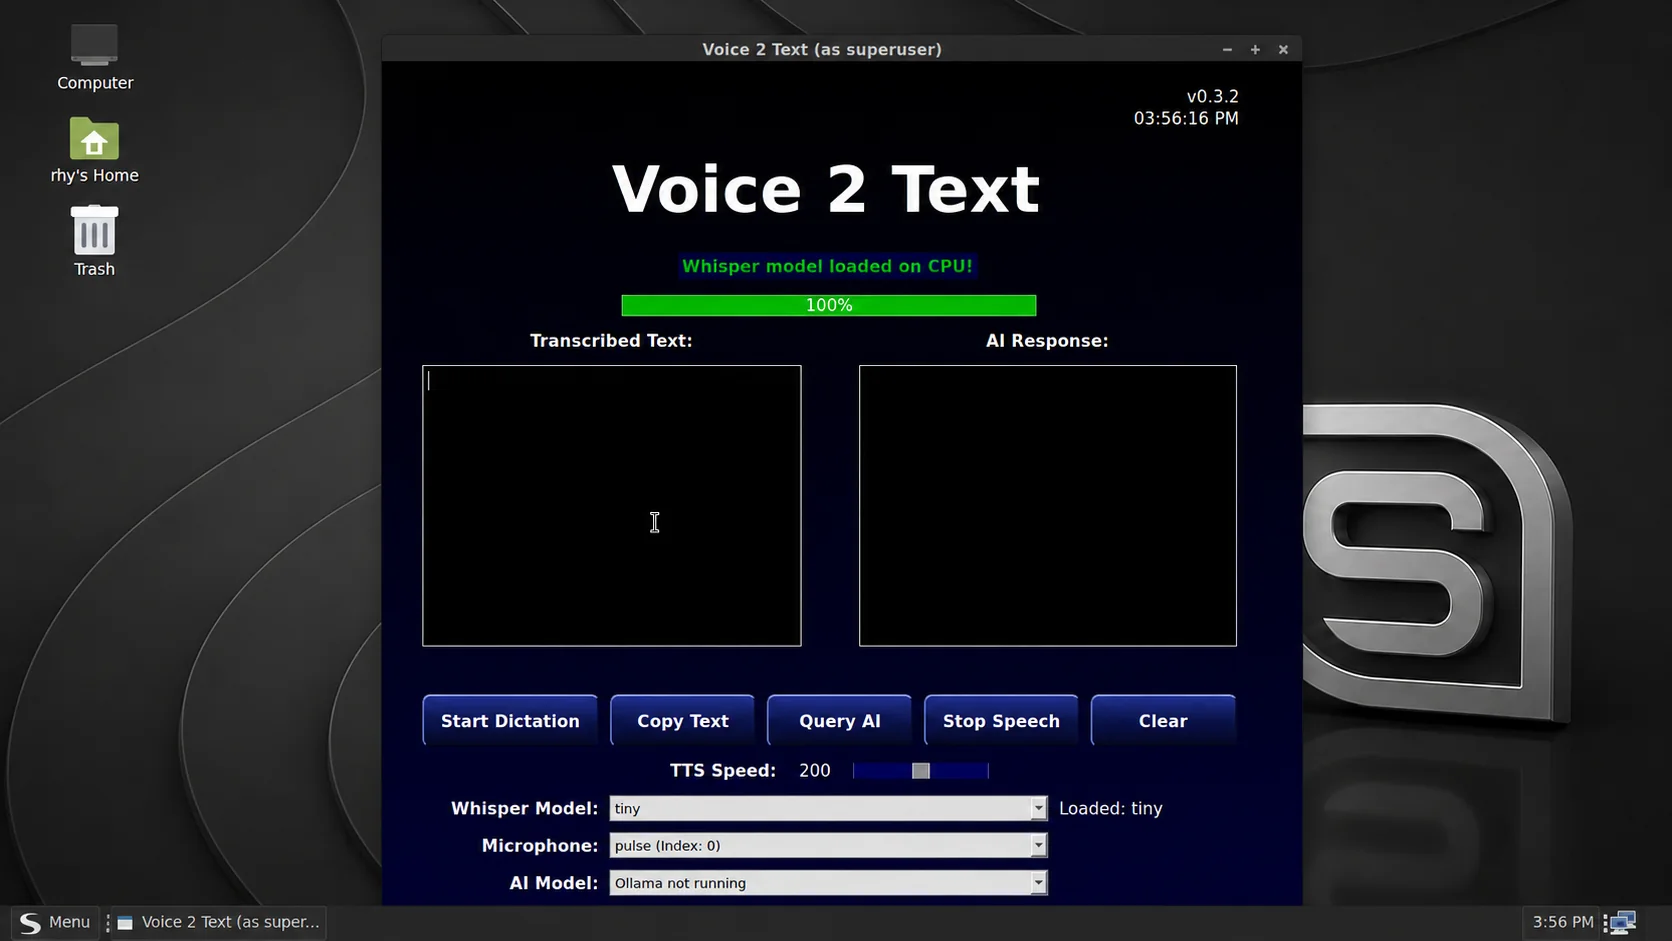
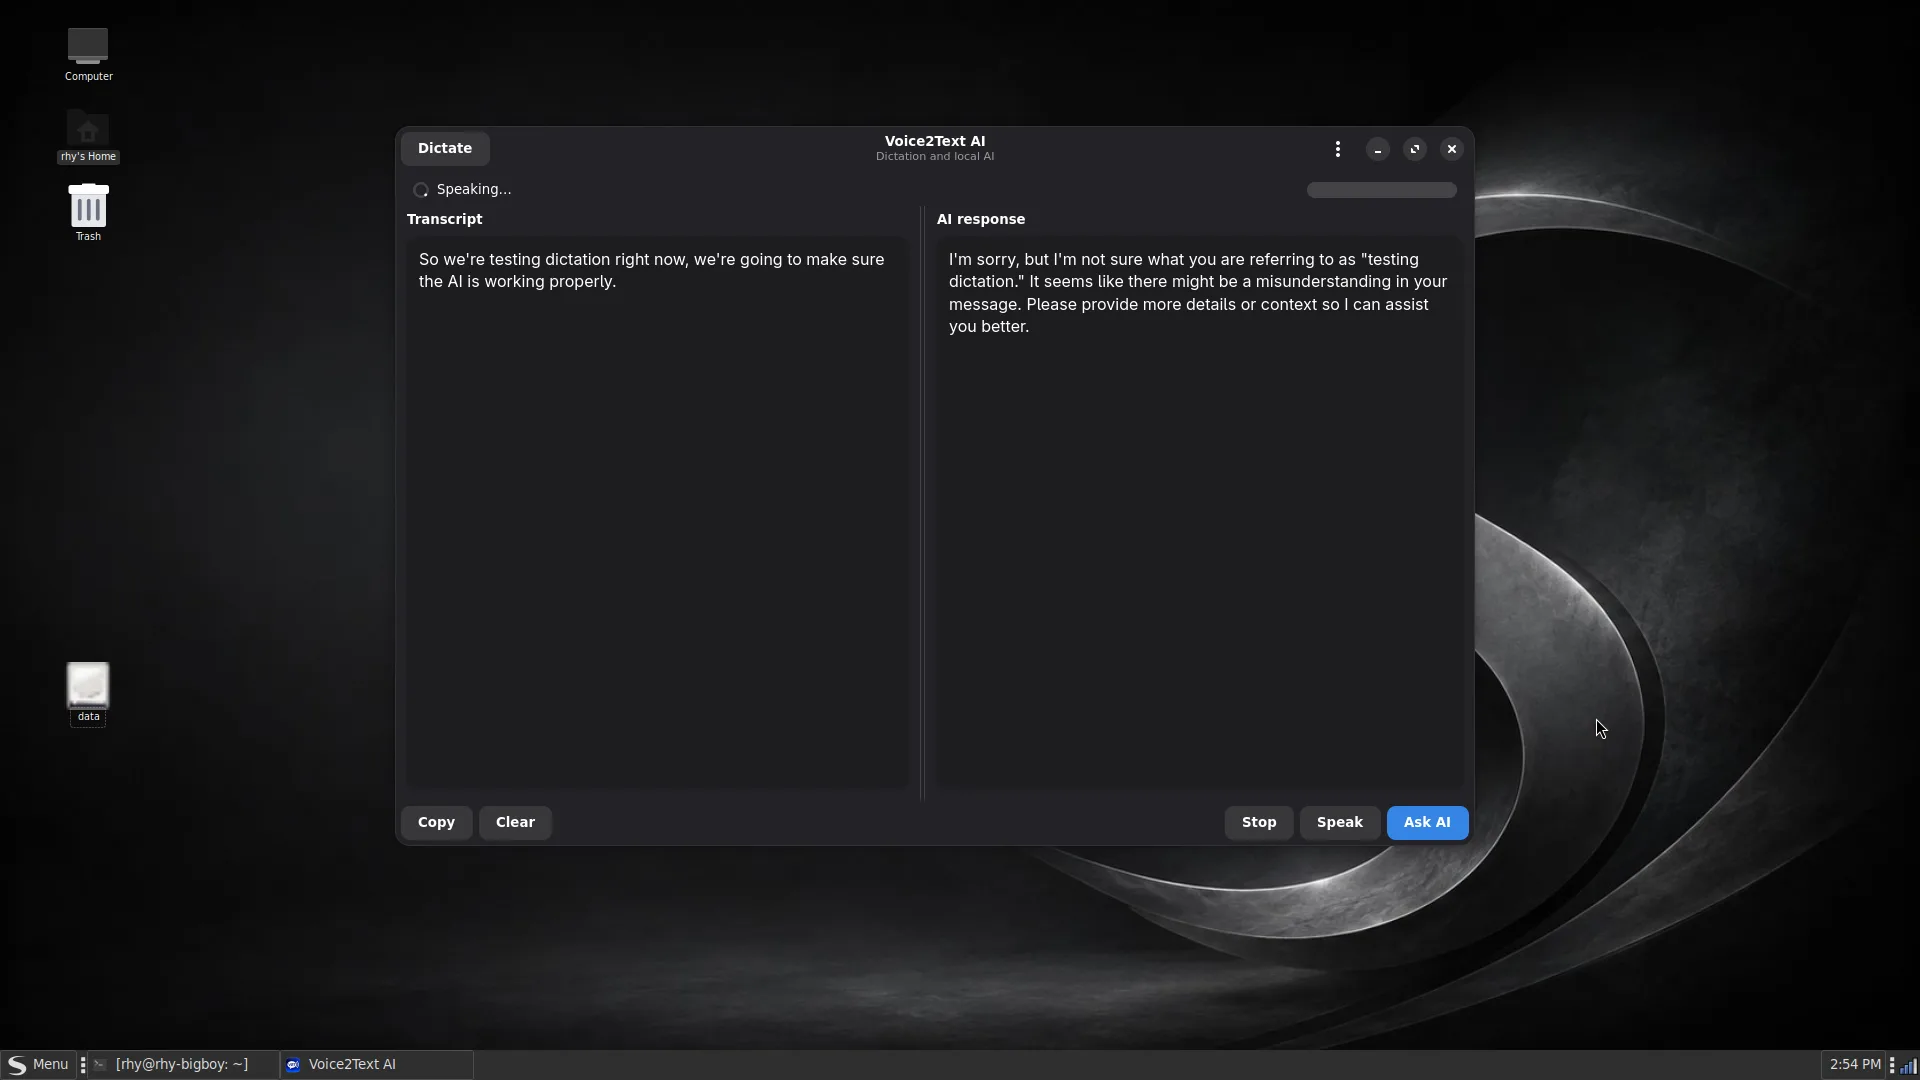
Replace Voice2Text screenshot in calamares, website, and README

diff --git a/website/index.html b/website/index.html
@@ -133,6 +133,12 @@
       </button>
       <figcaption><b>A familiar favorite</b><span>The macOS-inspired theme is one of the many coordinated Spaced Linux desktop looks.</span></figcaption>
     </figure>
+    <figure class="shot">
+      <button class="screenshot-button" type="button" data-image="/assets/screenshots/desktop-ai-tools.webp" data-title="Voice2Text local speech recognition">
+        <img src="/assets/screenshots/desktop-ai-tools.webp" loading="lazy" alt="Spaced Linux running the Voice2Text local speech-to-text application">
+      </button>
+      <figcaption><b>Private AI on your desktop</b><span>Voice2Text transcribes speech locally, keeping audio on-device with the rest of the flatpak workflow.</span></figcaption>
+    </figure>
   </div>
 </section>
 

diff --git a/README.md b/README.md
@@ -75,6 +75,10 @@ These are real Spaced Linux desktop sessions—not wallpaper mockups. Click any 
       <a href="website/assets/screenshots/desktop-macos.webp"><img src="website/assets/screenshots/desktop-macos.webp" alt="Spaced Linux macOS-style themed desktop"></a><br>
       <sub><strong>A familiar favorite</strong> — The macOS-inspired theme is one of the many coordinated Spaced Linux desktop looks.</sub>
     </td>
+    <td width="50%" align="center">
+      <a href="website/assets/screenshots/desktop-ai-tools.webp"><img src="website/assets/screenshots/desktop-ai-tools.webp" alt="Spaced Linux running the Voice2Text local speech-to-text application"></a><br>
+      <sub><strong>Private AI</strong> — Voice2Text transcribes speech locally on-device, part of the flatpak-driven AI workflow.</sub>
+    </td>
   </tr>
 </table>
 
